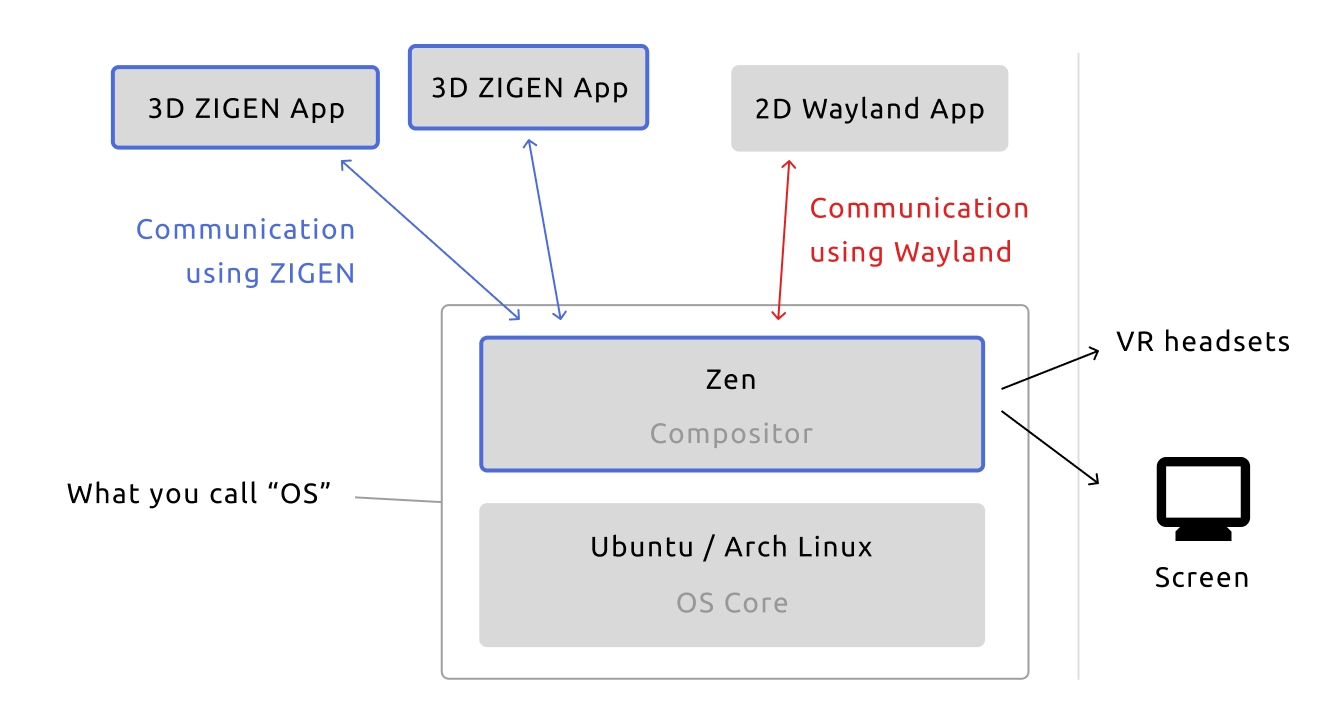
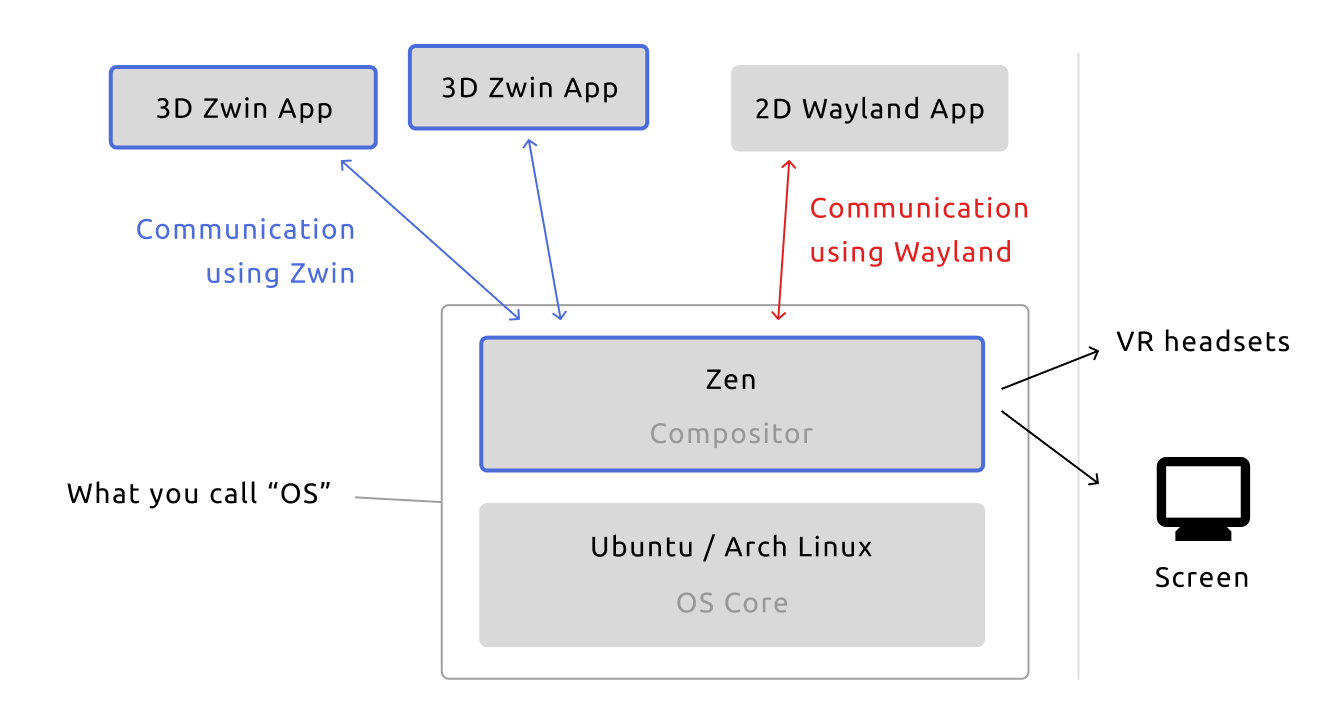
zwin

Changed region(s): [[0.0617, 0.0909, 0.4628, 0.2121], [0.1234, 0.3636, 0.2777, 0.3939]]

diff --git a/compontents/Footer.tsx b/compontents/Footer.tsx
@@ -13,7 +13,7 @@ const Footer = () => {
   return (
     <footer className={styles.footerwrap}>
       <div className={styles.footer + ' ' + (!isLarge ? styles.mobile : '')}>
-        <p className={styles.copyright}>© Z Window System, 2023</p>
+        <p className={styles.copyright}>© Zwin, 2023</p>
         <ul className={styles.link}>
           <a target="_blank" rel="noreferrer" className={styles.wraplink} href="http://discord.gg/PPJEFrdE9f">
             <DiscordIcon className={styles.discord} />

diff --git a/content/what_is_it/rendering_scheme/en.md b/content/what_is_it/rendering_scheme/en.md
@@ -1,6 +1,6 @@
 # Rendering scheme
 
-Z Window System uses a different rendering method than the conventional VR solutions.
+Zwin uses a different rendering method than the conventional VR solutions.
 
 
 ## Rendering of the application
@@ -10,7 +10,7 @@ In a conventional VR solution, VR apps receive viewpoint information from the sy
 ![alt_text](image1.png "image_tooltip")
 
 
-In the Z Window System, on the other hand, each VR app does not render the image by itself. Instead, **the VR app sends the object's vertex data, mesh data, texture, shaders, etc., to the compositor.** The compositor's virtual camera then draws all the virtual objects together.
+In Zwin, on the other hand, each VR app does not render the image by itself. Instead, **the VR app sends the object's vertex data, mesh data, texture, shaders, etc., to the compositor.** The compositor's virtual camera then draws all the virtual objects together.
 
 ![alt_text](image2.png "image_tooltip")
 
@@ -24,19 +24,19 @@ On the other hand, in our method, **the compositor is responsible for drawing an
 
 The flow for viewing the Zen view with Meta Quest is as follows; install an app for Meta Quest called **Zen Mirror** on your Quest, and set Zen on PC to VR mode with the app on the Quest open. The two will automatically start communicating within LAN, and Quest's Zen Mirror will display the view of Zen.
 
-There are some existing solutions for displaying PC VR applications to Quest like this, including Oculus Link and ALVR. But Zen/Z Window System takes a different approach here as well.
+There are some existing solutions for displaying PC VR applications to Quest like this, including Oculus Link and ALVR. But Zen/Zwin takes a different approach here as well.
 
 In typical solutions, the VR headset sends viewpoint information to the PC every frame, and the stereo images rendered by the PC are sent over the network every frame. Therefore, the update of images may be delayed with bad networks, which may cause VR sickness.
 
 ![alt_text](image3.png "image_tooltip")
 
 
-The Zen/Z Window System, on the other hand, sends the object's vertex data, mesh data, shaders, etc., passed from the application directly to the headset over the network. The headset is responsible for rendering each frame.
+The Zen/Zwin, on the other hand, sends the object's vertex data, mesh data, shaders, etc., passed from the application directly to the headset over the network. The headset is responsible for rendering each frame.
 
 ![alt_text](image4.png "image_tooltip")
 
 Thanks to this mechanism, **even if the network quality is poor and there is a delay in communication, the headset alone can update the perspective every frame**. Information is sent over the network only when the application wants to update the shape or appearance of an object. At other times, it does not occupy network bandwidth.
 
-Also, since we use the GPU on the headset for camera rendering, there is no need for a powerful GPU on the PC side. This enables using Zen/Z Window System in VR even with a cheap laptop.
+Also, since we use the GPU on the headset for camera rendering, there is no need for a powerful GPU on the PC side. This enables using Zen/Zwin in VR even with a cheap laptop.
 
-The mechanism of the Z Window System enables a comfortable VR experience even with low-quality PCs, low-quality applications, and low-quality networks.
+The mechanism of Zwin enables a comfortable VR experience even with low-quality PCs, low-quality applications, and low-quality networks.

diff --git a/content/what_is_it/what_is_z_window_system/ja.md b/content/what_is_it/what_is_z_window_system/ja.md
@@ -1,13 +1,13 @@
-# Z Window Systemとは
+# Zwinとは
 
-**要約：Z Window Systemは、XRウィンドウシステムのためのコンポジッターとプロトコルで、Waylandをベースに作られています。**
+**要約：Zwinは、XRウィンドウシステムのためのコンポジッターとプロトコルで、Waylandをベースに作られています。**
 
-この文の意味がわかる方は、「Z Window Systemのコア概念」までスキップしてください。わからない場合も、今から説明するのでご安心ください。
+この文の意味がわかる方は、「Zwinのコア概念」までスキップしてください。わからない場合も、今から説明するのでご安心ください。
 
 
 ## ウィンドウシステムとは
 
-ウィンドウシステムは、OSの上で動いている仕組みで、アプリのコンテンツを画面に表示してくれているものです。誰もが毎日使っているのですが、最近のOS（Windows/macOS/Ubuntuなど）ではデフォルトのウィンドウシステムが最初から備わっているので、意識せずに使っているかもしれません。ウィンドウシステムは皆さんがいつも使っている2DのOSにおける概念で、もともとはVRとは関係のないものです。Z Window Systemではこの仕組みをVRに拡張しています。
+ウィンドウシステムは、OSの上で動いている仕組みで、アプリのコンテンツを画面に表示してくれているものです。誰もが毎日使っているのですが、最近のOS（Windows/macOS/Ubuntuなど）ではデフォルトのウィンドウシステムが最初から備わっているので、意識せずに使っているかもしれません。ウィンドウシステムは皆さんがいつも使っている2DのOSにおける概念で、もともとはVRとは関係のないものです。Zwinではこの仕組みをVRに拡張しています。
 
 ウィンドウシステムには3つの構成要素があります。**クライアントアプリ、コンポジッター、プロトコル**です。
 
@@ -28,12 +28,12 @@
 
 
 
-## Z Window Systemのコア概念
+## Zwinのコア概念
 
 XRのウィンドウシステムを実現するため、私たちは**ZIGEN**（プロトコル）と**Zen**（コンポジッター）を開発しています。
 
 ![alt_text](image3.png "image_tooltip")
 
-ZIGENはプロトコルであり、実際に2D Waylandアプリケーションと通信をするのはZenです。**つまり、Z Window Systemを試すためにインストールする必要があるのはZenです**。コンポジッターは気軽に変更できます。UbuntuやArch LinuxといったOSの部分は変更する必要がありません。
+ZIGENはプロトコルであり、実際に2D Waylandアプリケーションと通信をするのはZenです。**つまり、Zwinを試すためにインストールする必要があるのはZenです**。コンポジッターは気軽に変更できます。UbuntuやArch LinuxといったOSの部分は変更する必要がありません。
 
 ZIGENはオープンソースなので、ZIGENプロトコルをサポートする3Dアプリや、Zenのようなコンポジッターを自由に誰でも開発することができます。

diff --git a/content/what_is_it/what_is_z_window_system/en.md b/content/what_is_it/what_is_z_window_system/en.md
@@ -1,8 +1,8 @@
-# What is Z Window System?
+# What is Zwin?
 
 **TL;DR: It’s a compositor and a protocol for an XR windowing system built on top of Wayland.**
 
-If you understand the above, please jump to "Z Window System core concepts". Otherwise, stay with us.
+If you understand the above, please jump to "Zwin core concepts". Otherwise, stay with us.
 
 
 ## What is a windowing system?
@@ -27,7 +27,7 @@ Your OS must have the above software. For example, on Ubuntu with Wayland protoc
 
 
 
-## Z Window System core concepts
+## Zwin core concepts
 
 To realize an XR windowing system, we built **ZIGEN** (a protocol) and **Zen** (a compositor).
 

diff --git a/content/what_is_it/interactions_on_zen/ja.md b/content/what_is_it/interactions_on_zen/ja.md
@@ -1,6 +1,6 @@
 # Zenでのインタラクション
 
-ZenはZ Window Systemのリファレンスコンポジッターです([Z Window Systemとは？](/what_is_it/what_is_z_window_system)を参照)。
+ZenはZwinのリファレンスコンポジッターです([Zwin Systemとは？](/what_is_it/what_is_z_window_system)を参照)。
 長時間のマウス・キーボードでのVR作業に向けてデザインされています。
 
 

diff --git a/content/what_is_it/interactions_on_zen/en.md b/content/what_is_it/interactions_on_zen/en.md
@@ -1,6 +1,6 @@
 # Interactions on Zen
 
-Zen is our reference compositor for Z Window System (See [What is Z Window System?](/what_is_it/what_is_z_window_system)).
+Zen is our reference compositor for Zwin (See [What is Zwin?](/what_is_it/what_is_z_window_system)).
 
 We designed it for the prolonged and extensive workflow of mouse/keyboard VR. 
 

diff --git a/content/what_is_it/3d_window/ja.md b/content/what_is_it/3d_window/ja.md
@@ -1,6 +1,6 @@
 # 3Dウィンドウ
 
-Z Window Systemの中核をなす3D Windowについて説明します。
+Zwinの中核をなす3D Windowについて説明します。
 
 
 ## 2つの種類：Bounded / Expansive

diff --git a/content/what_is_it/3d_window/en.md b/content/what_is_it/3d_window/en.md
@@ -1,6 +1,6 @@
 # 3D Window
 
-This section describes the 3D window that is the core of the Z Window System.
+This section describes the 3D window that is the core of Zwin.
 
 
 ## Bounded Window / Expansive Window
